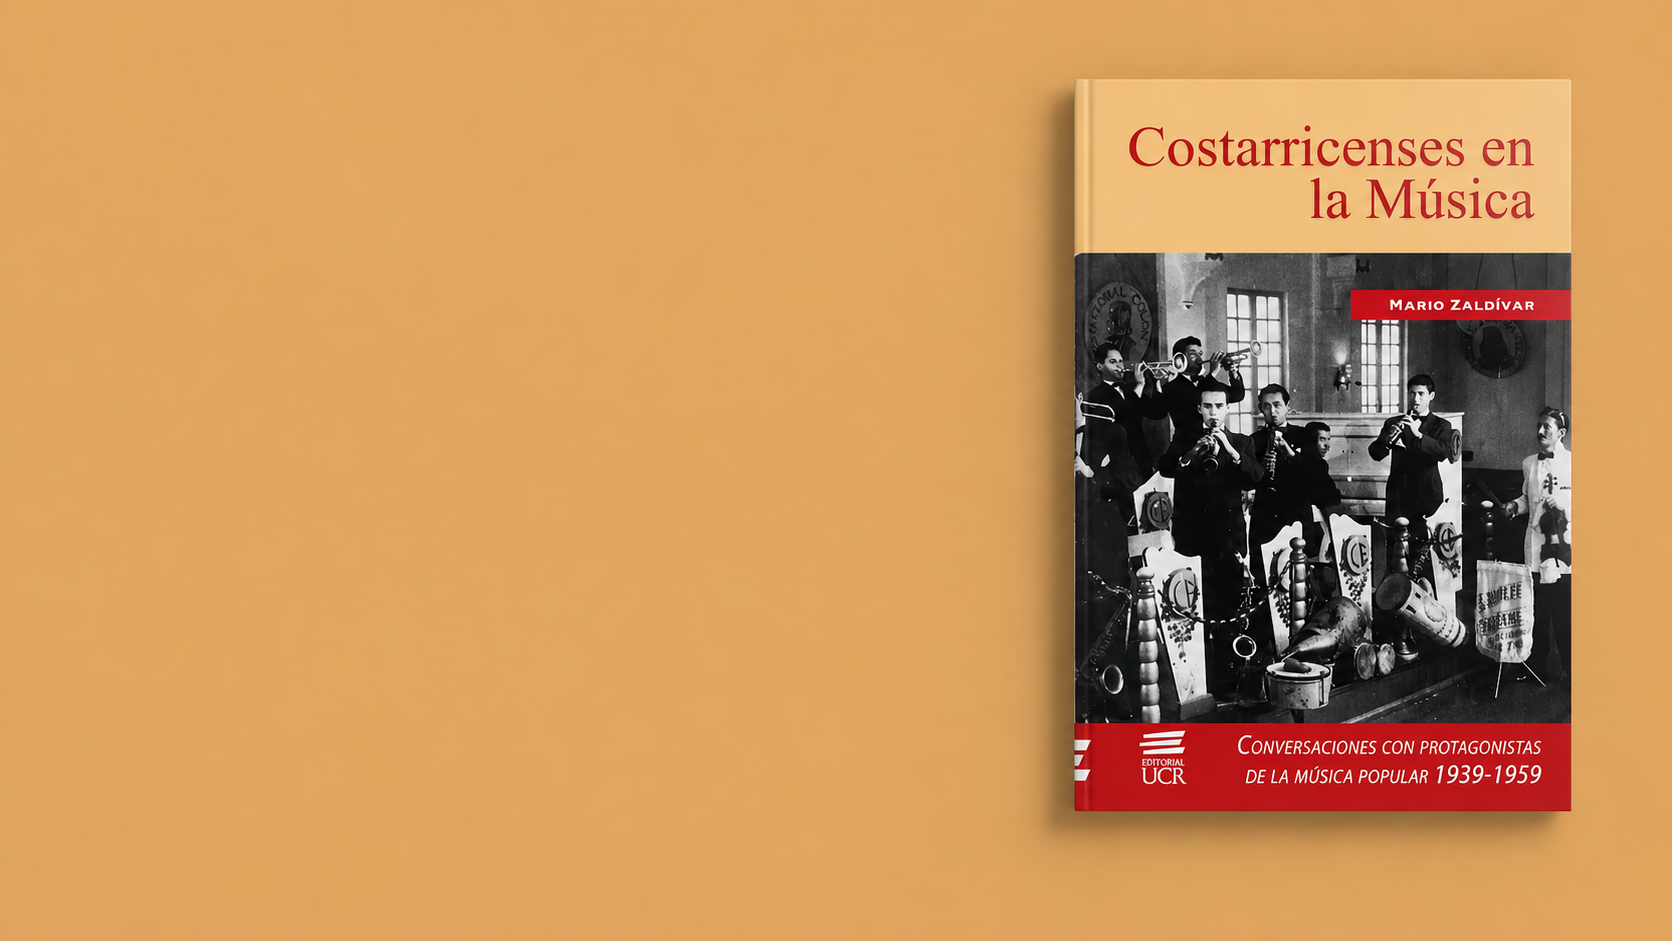
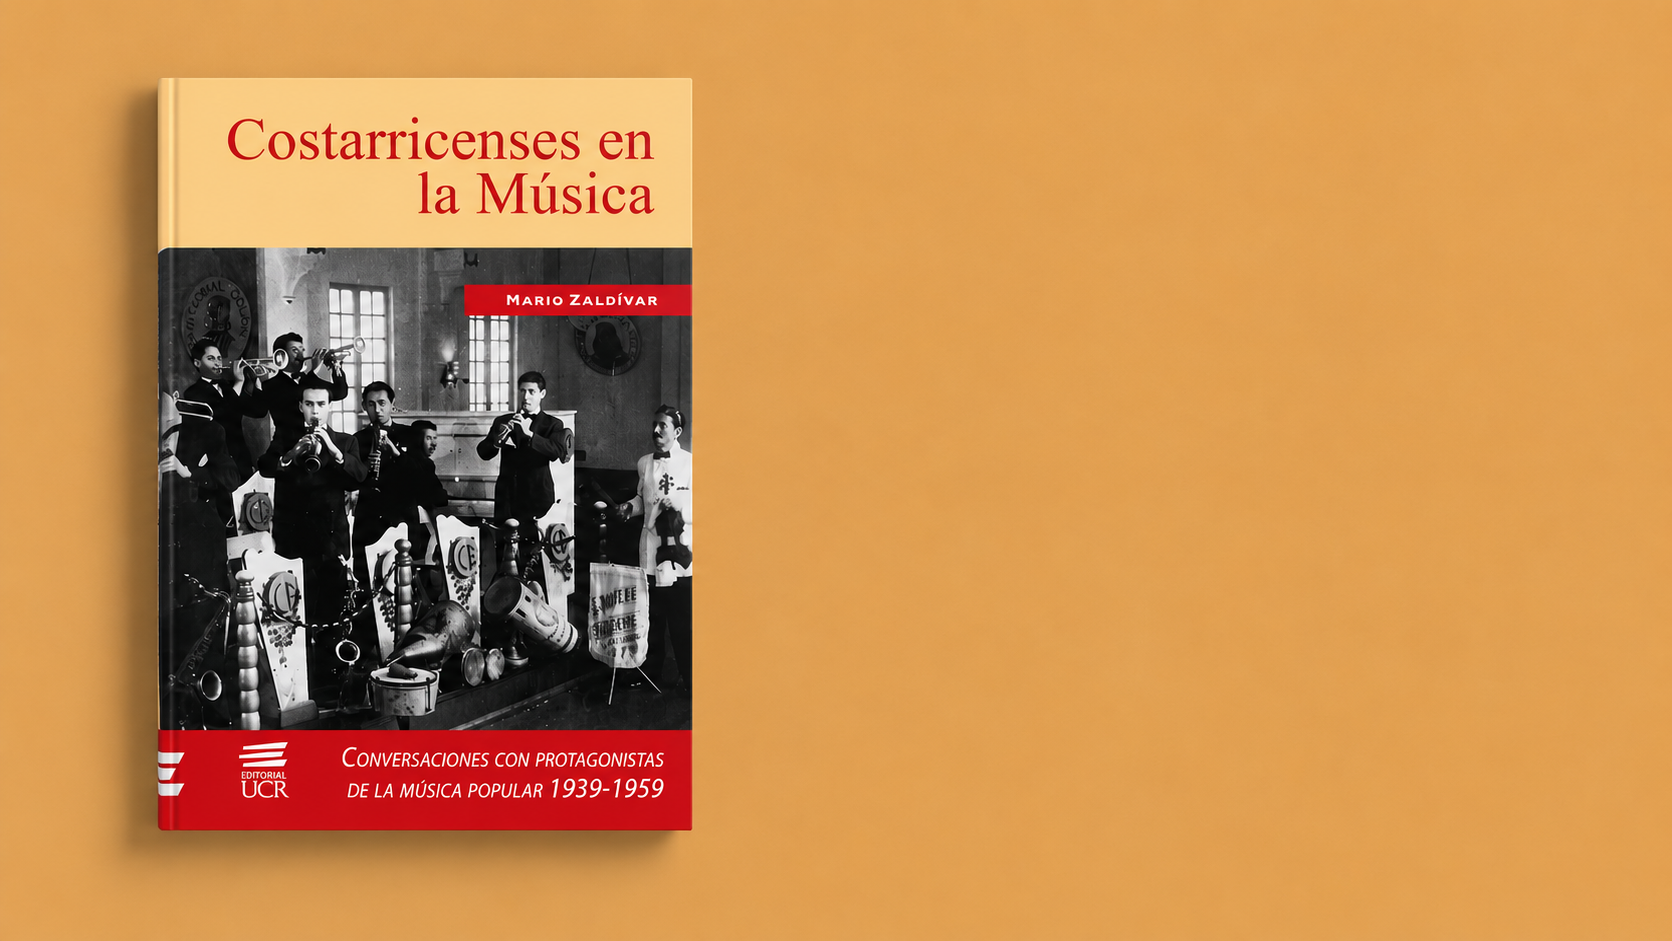
Adding final details

diff --git a/src/models/Book/index.js b/src/models/Book/index.js
@@ -1,36 +1,86 @@
 // Walls
-import gilbertoHernandezWall from '../../assets/gilberto_hernandez_wall.png'
-import ricardoMoraWall from '../../assets/ricardo_mora_wall.png'
-import julitaCortesWall from '../../assets/julita_cortes_wall.png'
-import cancionesYLugaresWall from '../../assets/canciones_y_lugares_wall.png'
+import gilberto_hernandez_wall from '../../assets/gilberto_hernandez_wall.png'
+import ricardo_mora_wall from '../../assets/ricardo_mora_wall.png'
+import julita_cortes_wall from '../../assets/julita_cortes_wall.png'
+import canciones_y_lugares_wall from '../../assets/canciones_y_lugares_wall.png'
+import costarricenses_en_la_musica_wall from '../../assets/costarricenses_en_la_musica_wall.png'
+import cronicas_de_la_musica_popular_cr_wall from '../../assets/cronicas_de_la_musica_popular_cr_wall.png'
+import imagenes_de_la_musica_popular_cr_wall from '../../assets/imagenes_de_la_musica_popular_cr_wall.png'
+import lubin_barahona_wall from '../../assets/lubin_barahona_wall.png'
 import ray_tico_wall from '../../assets/ray_tico_wall.png'
 import rafa_perez_wall from '../../assets/rafa_perez_wall.png'
 import otto_vargas_wall from '../../assets/otto_vargas_wall.png'
 import aquellos_salones_de_baile_wall from '../../assets/aquellos_salones_de_baile_wall.png'
 import mario_chacon_wall from '../../assets/mario_chacon_wall.png'
+import tu_nombre_tiene_musica_wall from '../../assets/tu_nombre_tiene_musica_wall.png'
 
 // Covers
-import gilbertoHernandezCover from '../../assets/gilberto_hernandez_cover.jpg'
-import ricardoMoraCover from '../../assets/ricardo_mora_cover.jpg'
-import julitaCortesCover from '../../assets/julita_cortes_cover.jpg'
-import cancionesYLugaresCover from '../../assets/canciones_y_lugares_cover.jpg'
+import gilberto_hernandez_cover from '../../assets/gilberto_hernandez_cover.jpg'
+import ricardo_mora_cover from '../../assets/ricardo_mora_cover.jpg'
+import julita_cortes_cover from '../../assets/julita_cortes_cover.jpg'
+import canciones_y_lugares_cover from '../../assets/canciones_y_lugares_cover.jpg'
+import costarricenses_en_la_musica_cover from '../../assets/costarricenses_en_la_musica_cover.jpg'
+import cronicas_de_la_musica_popular_cr_cover from '../../assets/cronicas_de_la_musica_popular_cr_cover.jpg'
+import imagenes_de_la_musica_popular_cr_cover from '../../assets/imagenes_de_la_musica_popular_cr_cover.jpg'
+import lubin_barahona_cover from '../../assets/lubin_barahona_cover.jpg'
 import ray_tico_cover from '../../assets/ray_tico_cover.jpg'
 import rafa_perez_cover from '../../assets/rafa_perez_cover.jpg'
 import otto_vargas_cover from '../../assets/otto_vargas_cover.jpg'
 import aquellos_salones_de_baile_cover from '../../assets/aquellos_salones_de_baile_cover.jpg'
 import mario_chacon_cover from '../../assets/mario_chacon_cover.jpg'
+import tu_nombre_tiene_musica_cover from '../../assets/tu_nombre_tiene_musica_cover.jpg'
 
 const standardPrice = '₡10 000'
 
 export const books = [
+  {
+    title: 'Tu nombre tiene música',
+    tag: 'Recopilación',
+    description:
+        'Tu nombre tiene música es un libro que reúne la historia de 180 canciones con nombres femeninos y masculinos. Desde María bonita a Juan charrasqueado, desde Rosa a Pedro nadie, de Ana hasta Juanita bonita, la historia discográfica del mundo se ha enriquecido con los nombres propios de la humanidad.',
+    price: standardPrice,
+    wall: tu_nombre_tiene_musica_wall,
+    cover: tu_nombre_tiene_musica_cover,
+    coverAlign: 'left',
+  },
+  {
+    title: 'Aquellos salones de baile',
+    tag: 'Historia',
+    description:
+        'Aquellos salones de baile es un libro que reúne la historia de más de 300 salas de baile del país, de las cuales quedan muy pocas. Esta es la recopilación más completa de la tradición bailable más importante del país.',
+    price: standardPrice,
+    wall: aquellos_salones_de_baile_wall,
+    cover: aquellos_salones_de_baile_cover,
+    coverAlign: 'right',
+  },
+  {
+    title: 'Crónicas de la música popular costarricense',
+    tag: 'Historia',
+    description:
+      'Crónicas de la Música Popular Costarricense es un libro que recoge 67 reseñas de las agrupaciones musicales más destacadas del país, originalmente publicadas en el suplemento Áncora de La Nación. El libro fue publicado con el apoyo financiero del Ministerio de Cultura.',
+    price: standardPrice,
+    wall: cronicas_de_la_musica_popular_cr_wall,
+    cover: cronicas_de_la_musica_popular_cr_cover,
+    coverAlign: 'left',
+  },
+  {
+    title: 'Canciones y Lugares',
+    tag: 'Recopilación',
+    description:
+      'Canciones y Lugares es un libro que reúne la historia de 180 canciones que llevan el nombre de ciudades, países, ríos, montes, edificios, calles y avenidas de merecida fama de todo el planeta. Cada pieza arrastra anécdotas, autores, rastro cinematográfico, discográfico y hasta intimidades de los artistas involucrados.',
+    price: standardPrice,
+    wall: canciones_y_lugares_wall,
+    cover: canciones_y_lugares_cover,
+    coverAlign: 'right',
+  },
   {
     title: 'Gilberto Hernandez',
     tag: 'Biografía',
     description:
       'Gilberto Hernández es el cantor tico más importante del bolero de corte arrabalero, una corriente que ha hecho historia en toda la región. Su estilo interpretativo le ha valido el reconocimiento de varias generaciones. Hizo muchas giras a Norte y Sur América, donde aún goza de merecido prestigio',
     price: standardPrice,
-    wall: gilbertoHernandezWall,
-    cover: gilbertoHernandezCover,
+    wall: gilberto_hernandez_wall,
+    cover: gilberto_hernandez_cover,
     coverAlign: 'left',
   },
   {
@@ -39,8 +89,8 @@ export const books = [
     description:
       'Ricardo Mora fue el compositor de boleros más importante de la música popular costarricense, dueño de un sentido melódico extraordinario. Tuvo la satisfacción de que grandes cantantes del continente grabaran sus canciones',
     price: standardPrice,
-    wall: ricardoMoraWall,
-    cover: ricardoMoraCover,
+    wall: ricardo_mora_wall,
+    cover: ricardo_mora_cover,
     coverAlign: 'right',
   },
   {
@@ -49,8 +99,8 @@ export const books = [
     description:
       'Julia Cortés es la única artista costarricense que ha triunfado en París y que ha vendido millones de discos en todo el mundo, como voz prima del trío Los Machucambos. Su desempeño en el arte musical no ha sido superado hasta la fecha.',
     price: standardPrice,
-    wall: julitaCortesWall,
-    cover: julitaCortesCover,
+    wall: julita_cortes_wall,
+    cover: julita_cortes_cover,
     coverAlign: 'left',
   },
   {
@@ -64,16 +114,6 @@ export const books = [
     coverAlign: 'right',
   },
   {
-    title: 'Canciones y Lugares',
-    tag: 'Recopilación',
-    description:
-      'Canciones y Lugares es un libro que reúne la historia de 180 canciones que llevan el nombre de ciudades, países, ríos, montes, edificios, calles y avenidas de merecida fama de todo el planeta. Cada pieza arrastra anécdotas, autores, rastro cinematográfico, discográfico y hasta intimidades de los artistas involucrados.',
-    price: standardPrice,
-    wall: cancionesYLugaresWall,
-    cover: cancionesYLugaresCover,
-    coverAlign: 'right',
-  },
-  {
     title: 'Ray Tico',
     tag: 'Biografía',
     description:
@@ -84,13 +124,13 @@ export const books = [
     coverAlign: 'left',
   },
   {
-    title: 'Aquellos salones de baile',
-    tag: 'Historia',
+    title: 'Lubin Barahona',
+    tag: 'Biografía',
     description:
-        'Aquellos salones de baile es un libro que reúne la historia de más de 300 salas de baile del país, de las cuales quedan muy pocas. Esta es la recopilación más completa de la tradición bailable más importante del país.',
+      'La orquesta de Lubín Barahona inició su labor artística desde los años 40 del siglo pasado y también fue una de las primeras agrupaciones musicales que hicieron giras a Centro y Sur América. Aún activa, se cuenta entre las orquestas de gran porte más antiguas de América.',
     price: standardPrice,
-    wall: aquellos_salones_de_baile_wall,
-    cover: aquellos_salones_de_baile_cover,
+    wall: lubin_barahona_wall,
+    cover: lubin_barahona_cover,
     coverAlign: 'right',
   },
   {
@@ -111,6 +151,26 @@ export const books = [
     price: standardPrice,
     wall: otto_vargas_wall,
     cover: otto_vargas_cover,
-    coverAlign: 'left'
+    coverAlign: 'right'
+  },
+  {
+    title: 'Costarricenses en la música',
+    tag: 'Historia',
+    description:
+      'Costarricenses en la música es un libro que reúne 27 entrevistas a los más grandes cantantes, músicos, compositores y directores de orquesta de la música popular costarricense de mitad del siglo XX. Esta generación marcó la historia del arte musical del país.',
+    price: standardPrice,
+    wall: costarricenses_en_la_musica_wall,
+    cover: costarricenses_en_la_musica_cover,
+    coverAlign: 'left',
+  },
+  {
+    title: 'Imágenes de la música popular costarricense',
+    tag: 'Historia',
+    description:
+        'Imágenes de la Música Popular Costarricense es un libro que contiene más de 160 fotografías de orquestas, cantantes y salas de baile de la Costa Rica de mitad del siglo XX. Este es un archivo gráfico de los grandes protagonistas de nuestra música popular.',
+    price: standardPrice,
+    wall: imagenes_de_la_musica_popular_cr_wall,
+    cover: imagenes_de_la_musica_popular_cr_cover,
+    coverAlign: 'right',
   }
 ]

diff --git a/src/App.css b/src/App.css
@@ -127,8 +127,8 @@
 
 .wall-content h2 {
   margin: 0;
-  font-size: clamp(1.5rem, 3vw, 2.4rem);
-  line-height: 1.04;
+  font-size: clamp(1.3rem, 3vw, 2.4rem);
+  line-height: 1.02;
   text-wrap: balance;
 }
 
@@ -378,6 +378,32 @@
   line-height: 1.75;
   text-align: justify;
   text-justify: inter-word;
+}
+
+.about-me-contact {
+  width: 100%;
+  max-width: 760px;
+  display: flex;
+  flex-direction: column;
+  align-items: flex-start;
+  gap: 6px;
+  text-align: left;
+}
+
+.about-me-contact h3 {
+  margin: 0;
+  color: #f8f5ef;
+  font-size: 1.1rem;
+}
+
+.about-me-contact a {
+  color: rgba(248, 245, 239, 0.86);
+  text-decoration: none;
+}
+
+.about-me-contact a:hover {
+  color: #f8f5ef;
+  text-decoration: underline;
 }
 
 @media (max-width: 900px) {

diff --git a/src/components/AboutMe.jsx b/src/components/AboutMe.jsx
@@ -43,6 +43,16 @@ function AboutMe({ onClose }) {
               surrealista.
             </p>
           </div>
+          <br />
+          <div className="about-me-contact">
+            <h3>Contacto:</h3>
+             <a
+                href={`https://wa.me/50689217025`}
+                target="_blank"
+                rel="noreferrer"
+              >+506 89217025</a>
+            <a href="mailto:mazalri22@gmail.com">mazalri22@gmail.com</a>
+          </div>
         </article>
       </div>
     </article>
